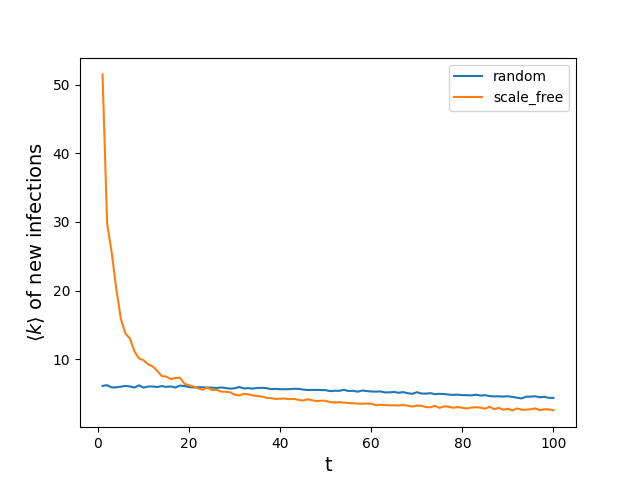
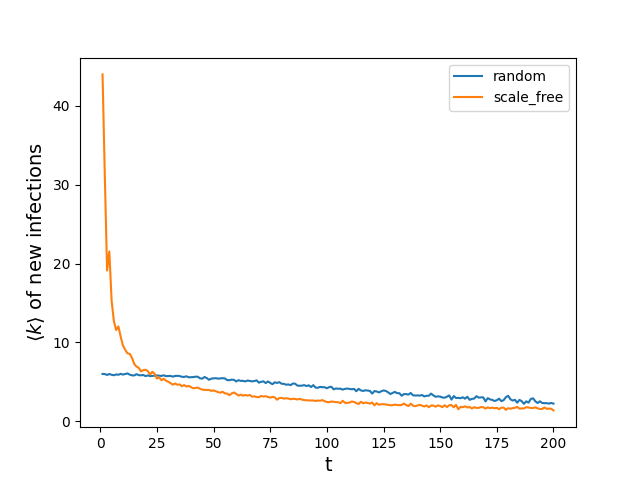
deleted networks.py

diff --git a/epidemics3.py b/epidemics3.py
@@ -1,13 +1,30 @@
 import matplotlib.pyplot as plt
+from epidemics1 import SI_model
+from epidemics1 import ex_simulation
+
 
 def func_dIdt(b, I, S):
-    return ( 1 - ( (1-b) ** I) ) * S
+    return (1 - ((1 - b) ** I)) * S
+
 
 def func_dSdt(b, I, S):
     return -func_dIdt(b, I, S)
 
+
 def euler_plot(
-    stepsize, t, t_f, i, k, N, initial_condition1, func1, initial_condition2, func2, label, color='b', alpha=1
+    stepsize,
+    t,
+    t_f,
+    i,
+    k,
+    N,
+    initial_condition1,
+    func1,
+    initial_condition2,
+    func2,
+    label,
+    color="b",
+    alpha=1,
 ):
     """
     Creates a plot according to the euler approximation given the stepsize, a range
@@ -17,7 +34,7 @@ def euler_plot(
     I_estimate_list, S_estimate_list, t_list = [], [], []
     I_previous = initial_condition1
     S_previous = initial_condition2
-    b= (1 - (1 - i)**(k/N))
+    b = 1 - (1 - i) ** (k / N)
     while t < t_f + stepsize:
         I_next = I_previous + stepsize * func1(b, I_previous, S_previous)
         S_next = S_previous + stepsize * func2(b, I_previous, S_previous)
@@ -30,18 +47,60 @@ def euler_plot(
         S_previous = S_next
         t += stepsize
 
-    IN_list=[]
+    IN_list = []
     for I in I_estimate_list:
-        IN_list.append(I/N)
-    
+        IN_list.append(I / N)
 
     plt.plot(t_list, IN_list, label=label, alpha=alpha, color=color)
 
     pass
 
-N=10**5
-i= 0.01
+
+N = 10**5
+i = 0.01
 k = 5
-euler_plot(0.001, 0, 200, 0.01, 5, N, 0.001*N, func_dIdt, 0.999*N, func_dSdt, 'Euler estimate', color='blue')
-euler_plot(0.001, 0, 200, 0.1, 0.8, N, 0.001*N, func_dIdt, 0.999*N, func_dSdt, 'Euler estimate', color='orange')
-plt.show()
+
+plt.figure()
+euler_plot(
+    stepsize=0.001,
+    t=0,
+    t_f=200,
+    i=0.01,
+    k=5,
+    N=N,
+    initial_condition1=0.1 * N,
+    func1=func_dIdt,
+    initial_condition2=0.9 * N,
+    func2=func_dSdt,
+    label="Euler: k = 5, i = 0.01",
+    color="green",
+)
+euler_plot(
+    stepsize=0.001,
+    t=0,
+    t_f=200,
+    i=0.1,
+    k=0.8,
+    N=N,
+    initial_condition1=0.1 * N,
+    func1=func_dIdt,
+    initial_condition2=0.9 * N,
+    func2=func_dSdt,
+    label="Euler: k = 0.8, i = 0.1",
+    color="red",
+)
+
+
+model1 = SI_model(N=10**5, k=5, i=0.01, init_i=0.1, network="random")
+model2 = SI_model(N=10**5, k=0.8, i=0.1, init_i=0.1, network="random")
+
+t_steps = 200
+reps = 1
+
+
+ex_simulation(model1, reps, t_steps)
+ex_simulation(model2, reps, t_steps)
+plt.xlabel("t", fontsize=14)
+plt.ylabel(r"$\frac{I}{N}$", fontsize=16)
+plt.legend()
+plt.savefig("Ep_3a.png")

diff --git a/epidemics4.py b/epidemics4.py
@@ -7,7 +7,7 @@ import matplotlib.pyplot as plt
 model1 = SI_model(N=10**5, k=5, i=0.01, init_i=0.1, network="random")
 model2 = SI_model(N=10**5, k=5, i=0.01, init_i=0.1, network="scale_free", power=2.5)
 
-t_steps = 100
+t_steps = 200
 reps = 1
 
 plt.figure()
